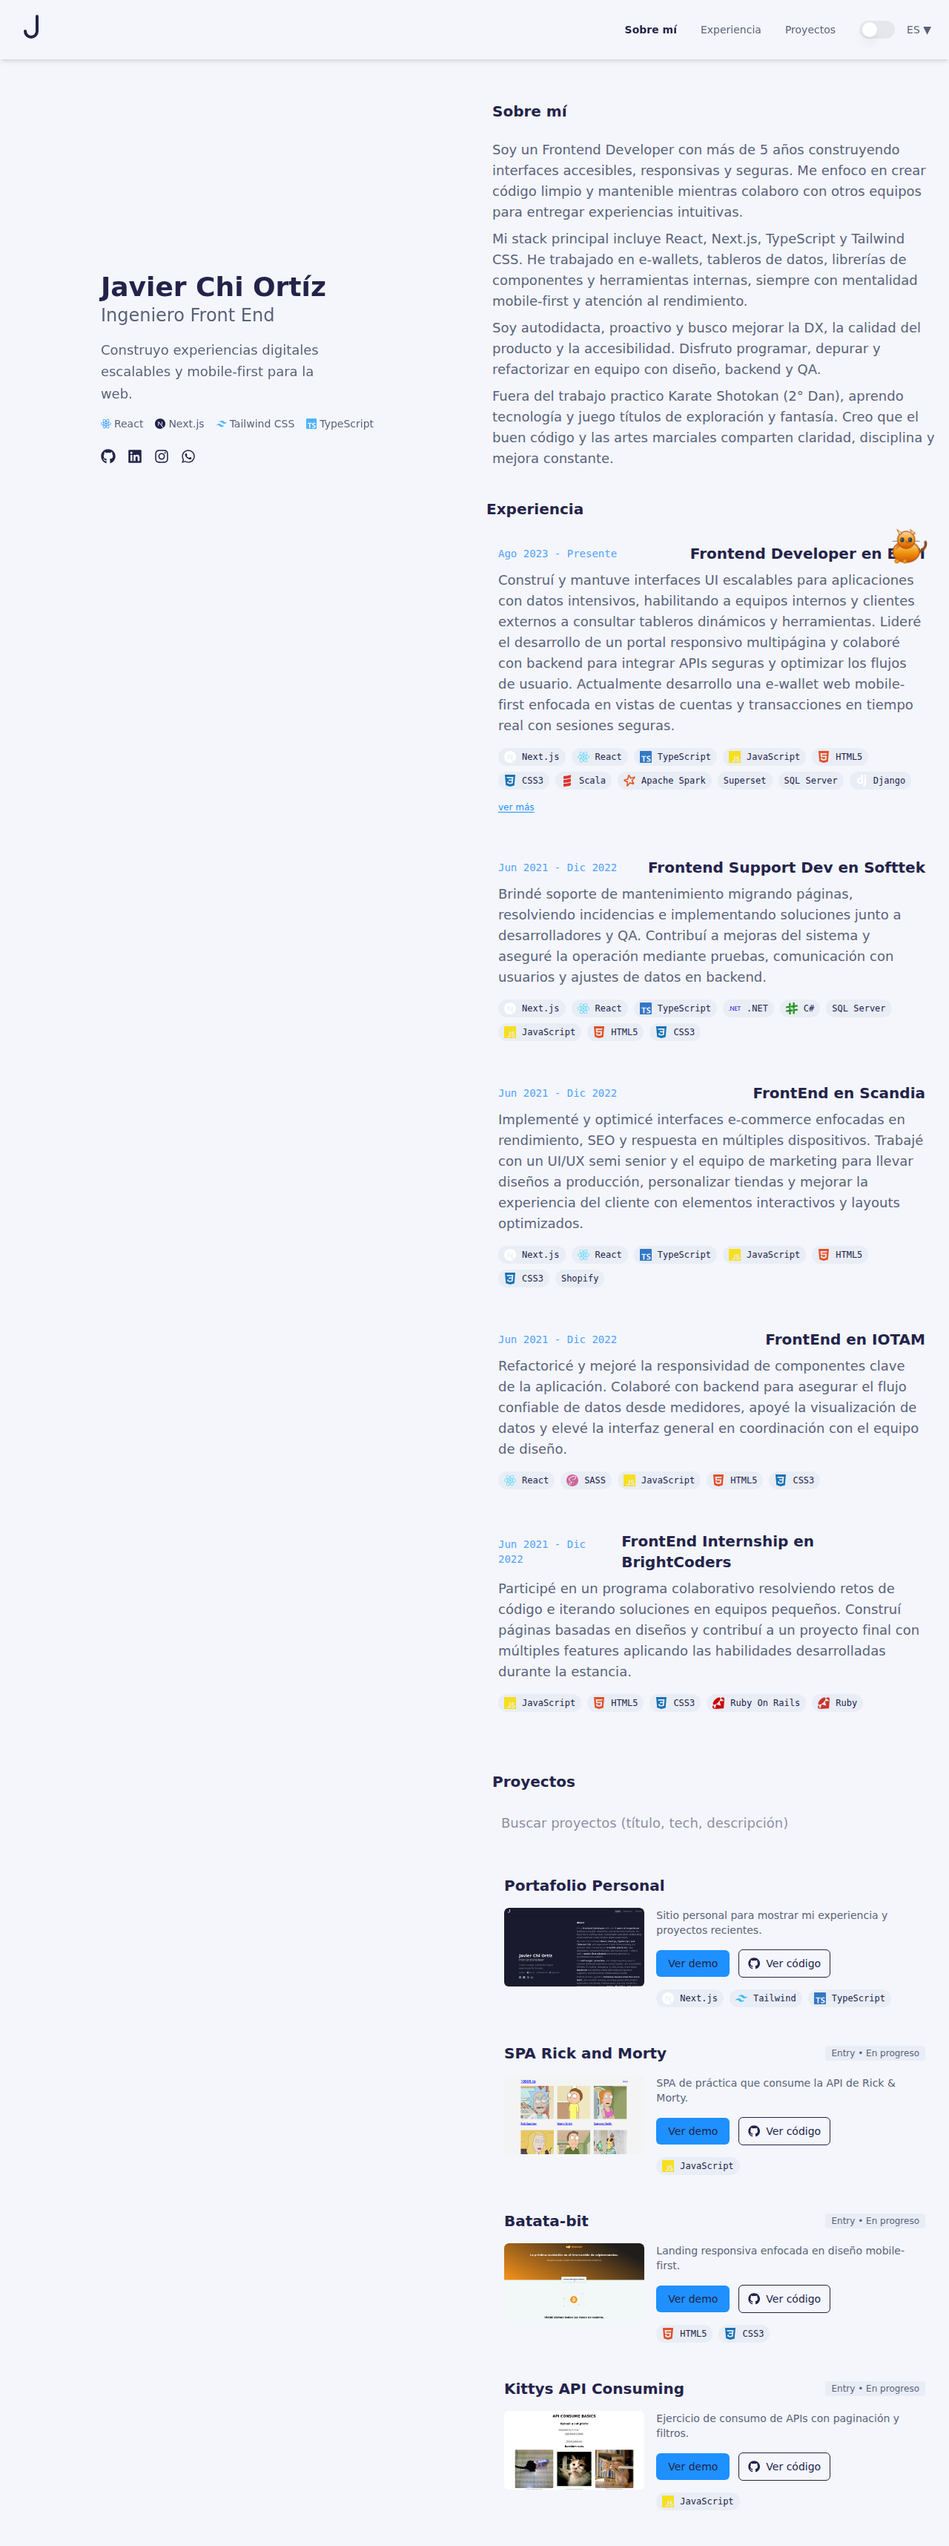
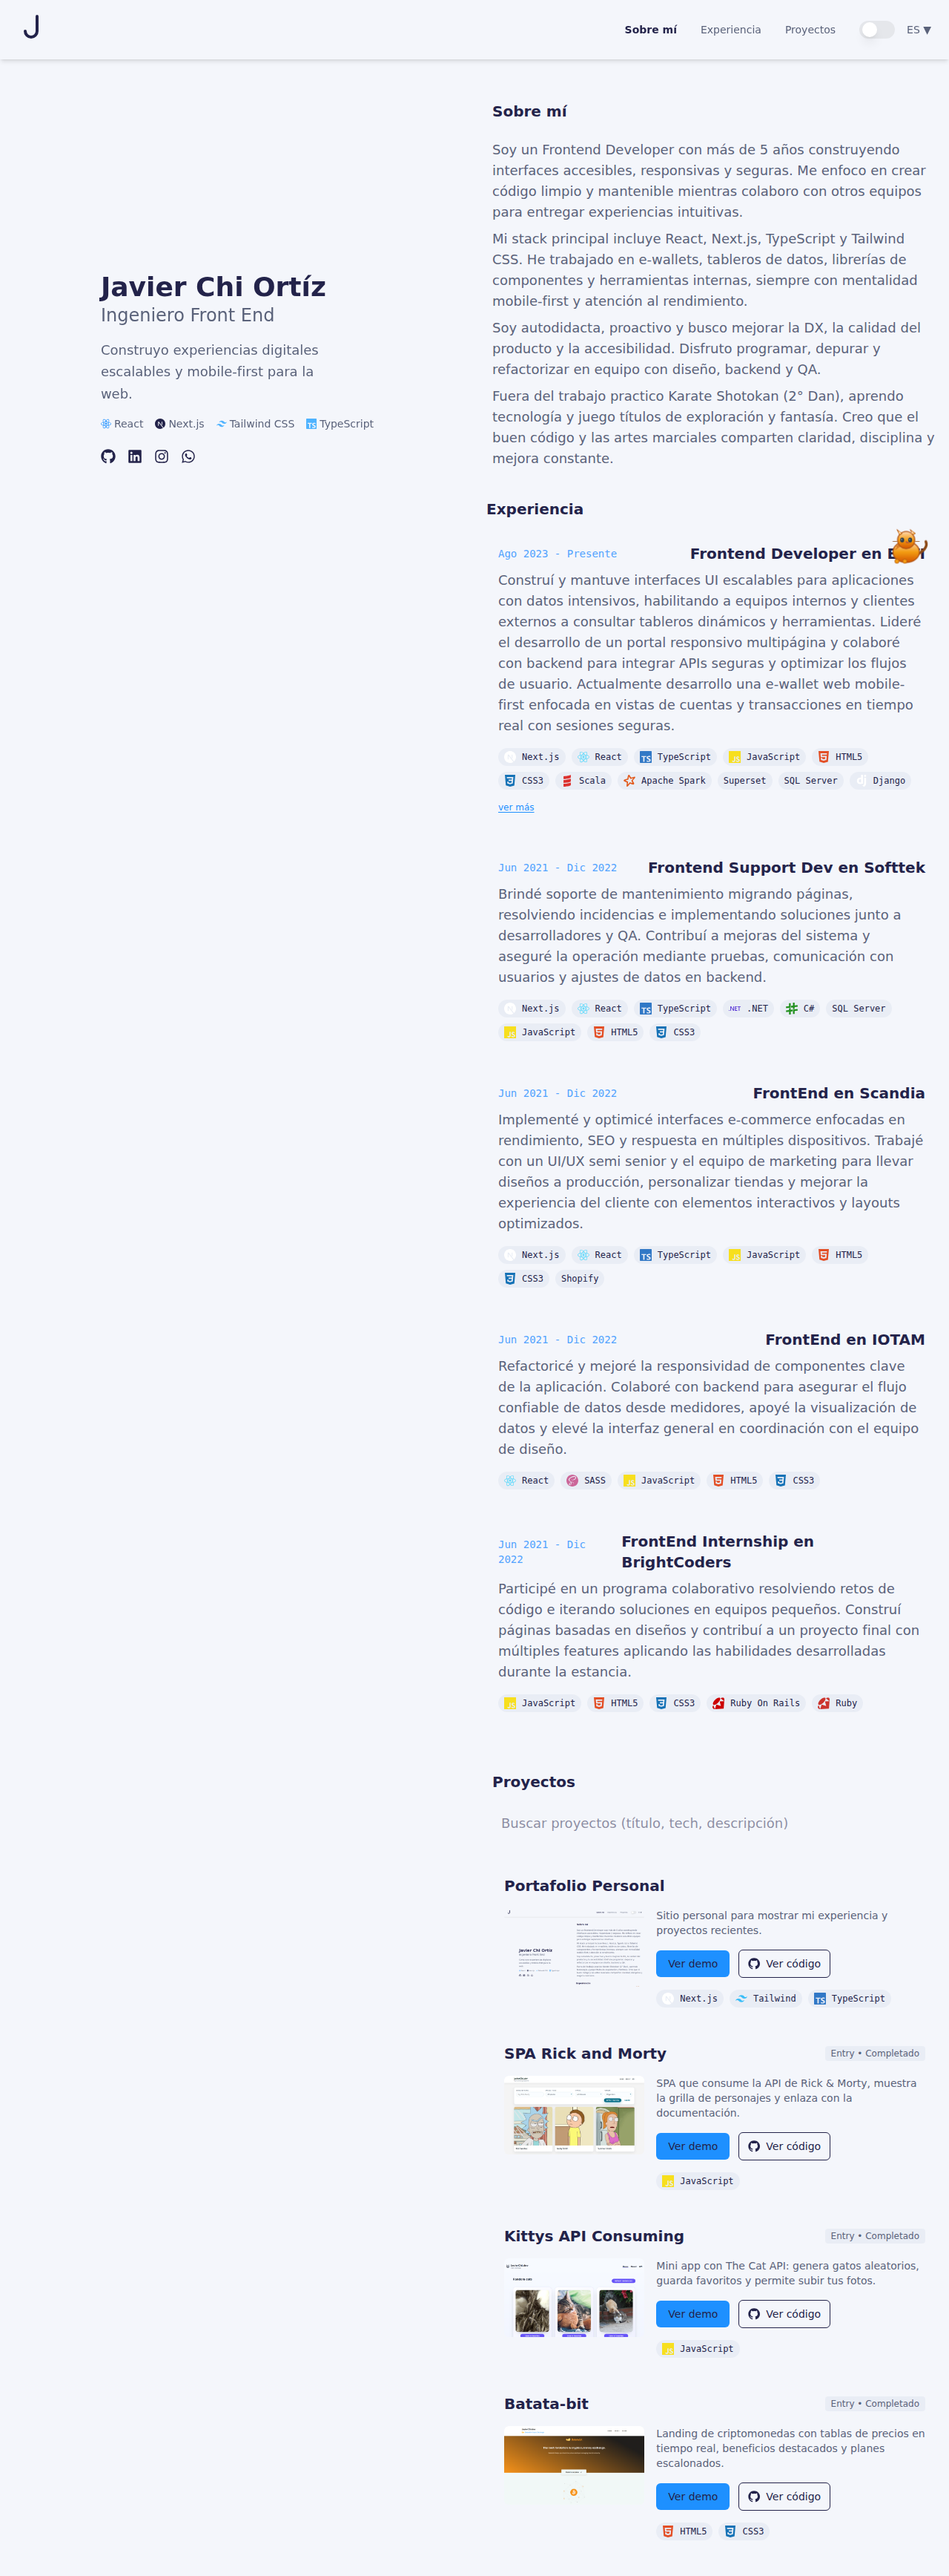
chore: add cat assets and image processing scripts

Changed region(s): [[0.5, 0.0312, 0.9688, 0.998], [0.0938, 0.0936, 0.3438, 0.1871], [0.9375, 0.842, 0.9688, 0.8732]]

diff --git a/scripts/remove_bg.js b/scripts/remove_bg.js
@@ -1,0 +1,32 @@
+const { Jimp } = require('jimp');
+const path = require('path');
+
+async function removeWhite() {
+    const input = process.argv[2];
+    const output = process.argv[3];
+
+    try {
+        const image = await Jimp.read(input);
+
+        image.scan(0, 0, image.bitmap.width, image.bitmap.height, function (x, y, idx) {
+            const red = this.bitmap.data[idx + 0];
+            const green = this.bitmap.data[idx + 1];
+            const blue = this.bitmap.data[idx + 2];
+
+            // If close to white, make transparent
+            if (red > 240 && green > 240 && blue > 240) {
+                this.bitmap.data[idx + 3] = 0; // Alpha to 0
+            }
+        });
+
+        image.write(output, (err) => {
+            if (err) throw err;
+            console.log('Processed', output);
+        });
+    } catch (err) {
+        console.error(err);
+        process.exit(1);
+    }
+}
+
+removeWhite();

diff --git a/scripts/check_dim.js b/scripts/check_dim.js
@@ -1,0 +1,13 @@
+const { Jimp } = require('jimp');
+
+async function checkDimensions() {
+    const input = process.argv[2];
+    try {
+        const image = await Jimp.read(input);
+        console.log(`Width: ${image.bitmap.width}, Height: ${image.bitmap.height}`);
+    } catch (err) {
+        console.error(err);
+    }
+}
+
+checkDimensions();

diff --git a/scripts/capture-screenshots.js b/scripts/capture-screenshots.js
@@ -20,6 +20,10 @@ const targets = [
     url: 'https://javierchiortiz.dev/',
     out: 'public/utils/img/portfolio-personal-live-screenshot.png',
   },
+  {
+    url: 'https://scandiamfg.com/',
+    out: 'public/utils/img/scandia-manufacturing-screenshot.png',
+  },
 ];
 
 (async () => {

diff --git a/scripts/remove_bg.py b/scripts/remove_bg.py
@@ -1,0 +1,23 @@
+from PIL import Image
+import sys
+
+def remove_white(input_path, output_path):
+    img = Image.open(input_path)
+    img = img.convert("RGBA")
+    datas = img.getdata()
+
+    newData = []
+    for item in datas:
+        # Change all white (also shades of whites)
+        # to transparent
+        if item[0] > 240 and item[1] > 240 and item[2] > 240:
+            newData.append((255, 255, 255, 0))
+        else:
+            newData.append(item)
+
+    img.putdata(newData)
+    img.save(output_path, "PNG")
+    print("Done")
+
+if __name__ == "__main__":
+    remove_white(sys.argv[1], sys.argv[2])
